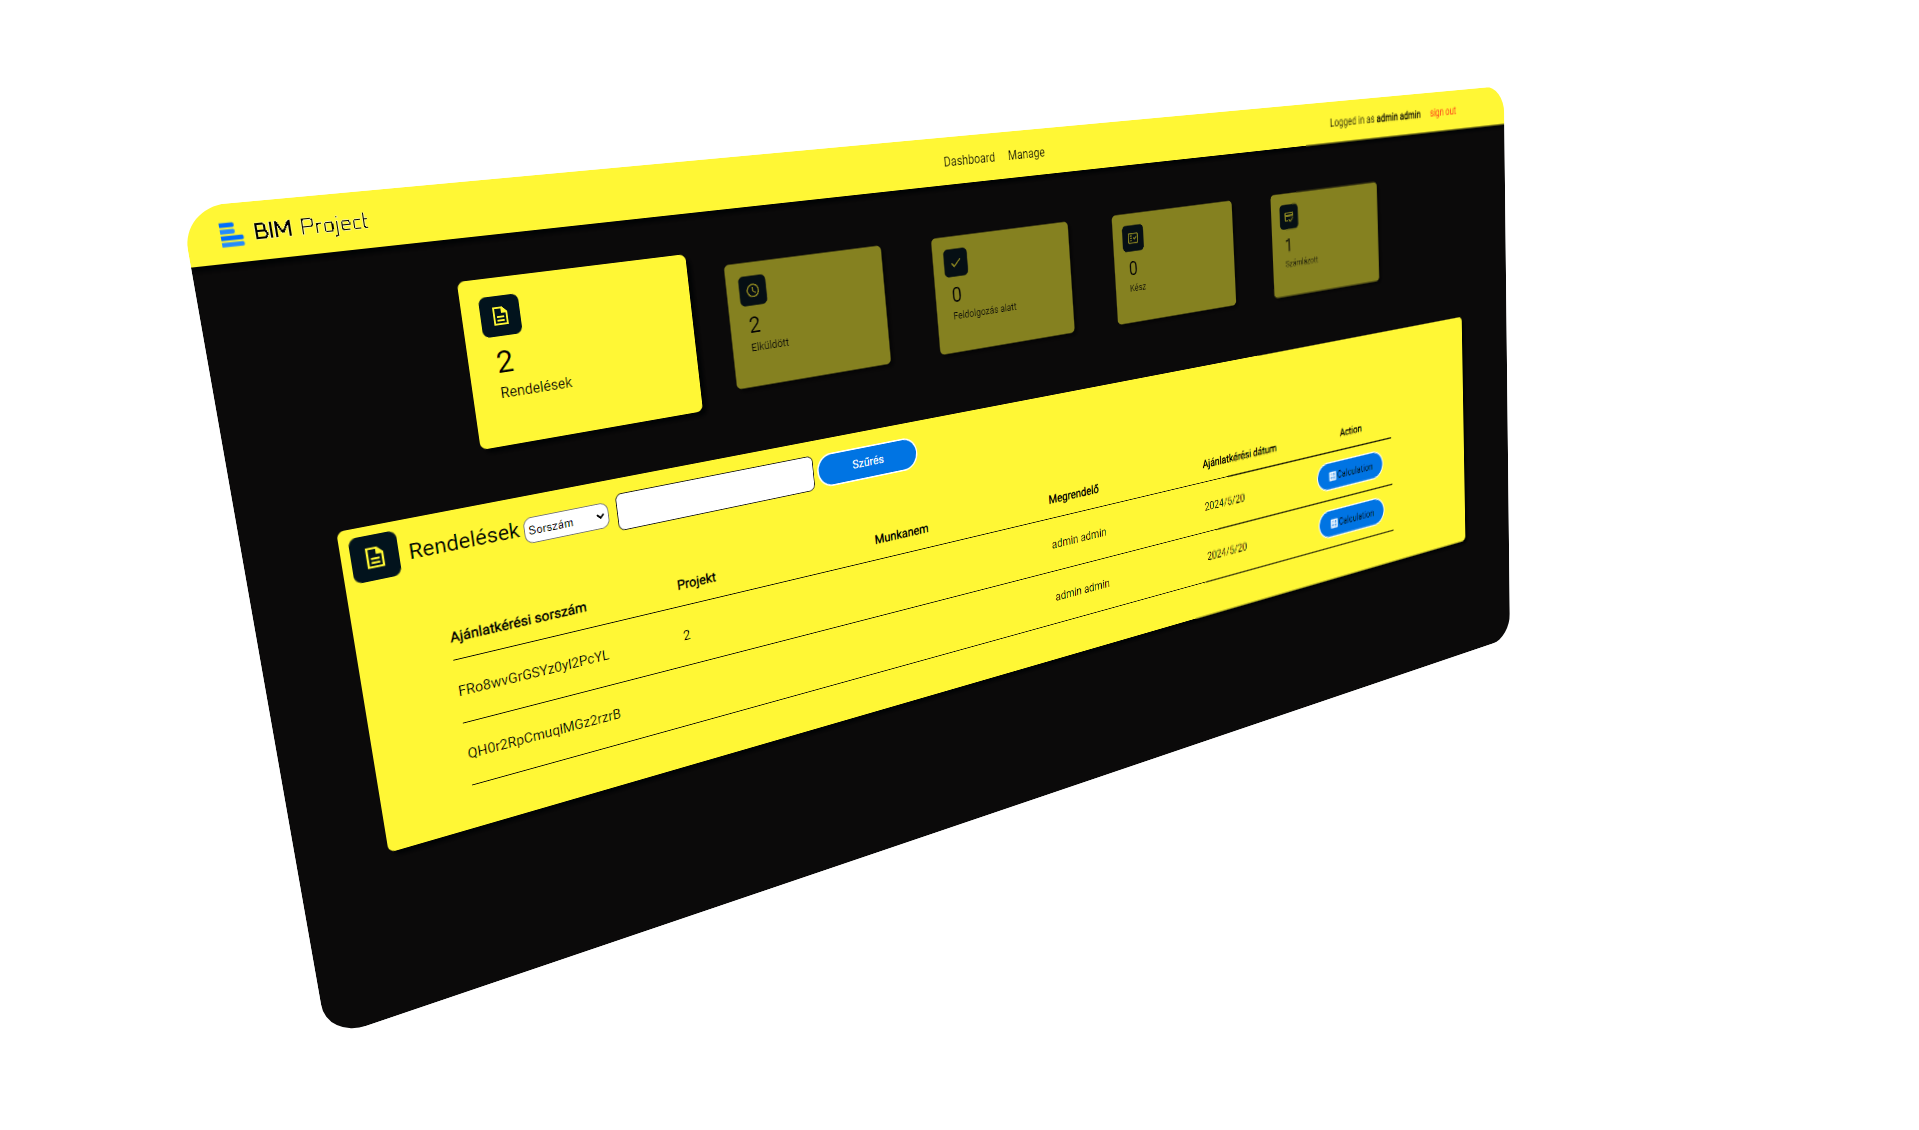
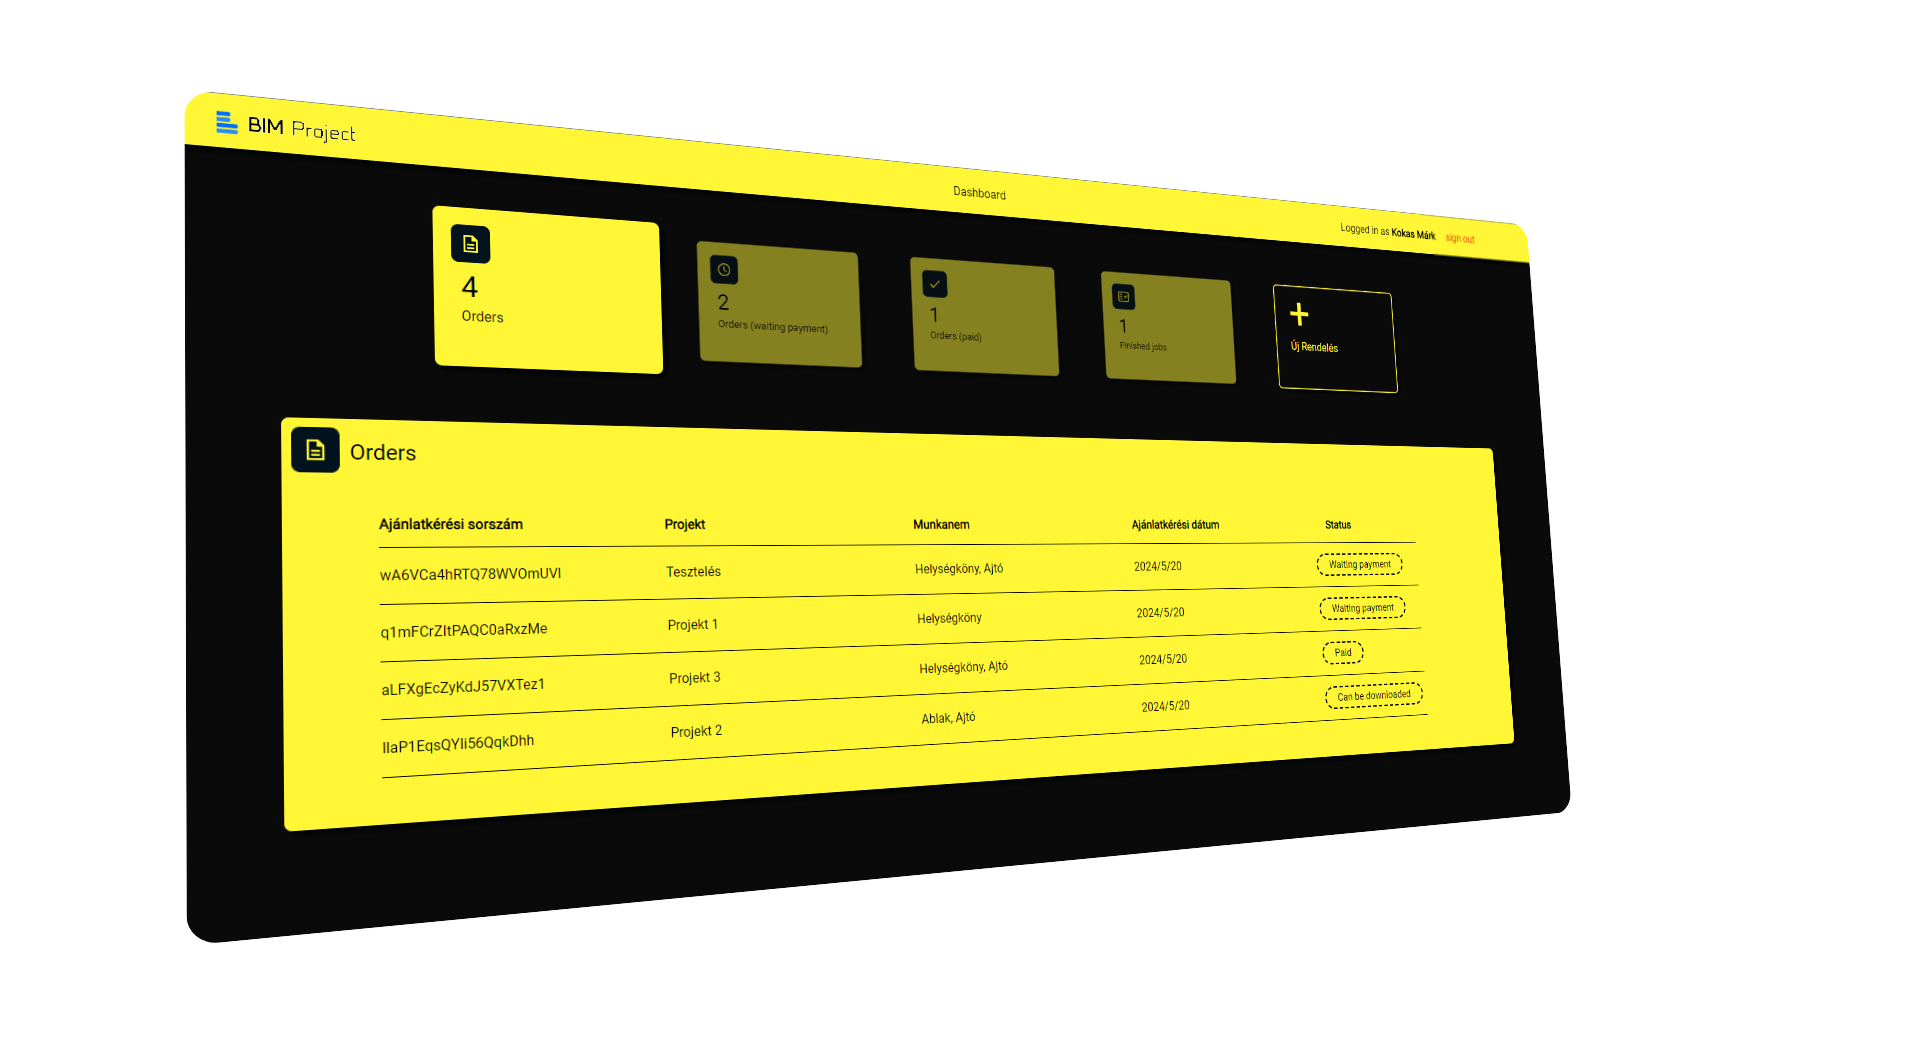
Rework...

diff --git a/src/CustomerDashboard.js b/src/CustomerDashboard.js
@@ -246,10 +246,8 @@ class CustomerDashboard extends Component {
     render() {
         return (
             <div style={{ backgroundColor: 'var(--darker-bg)', overflowY: this.state.blur == false ? 'scroll' : 'hidden', maxHeight: '1000px' }} ref={this.dashboard}>
-                <button className='rounded-btn-primary' style={{ position: 'relative', top: 0, left: '50%', filter: this.state.blur == true ? 'blur(3px) brightness(50%)' : '' }}
-                    onClick={() => this.requestOfferPopUp()}>Request New Offer</button>
                 <div className='dashboard-header' style={{ filter: this.state.blur == true ? 'blur(3px) brightness(50%)' : '' }}>
-                    <Card className={this.state.selectedCategory == "orders"?"header selected":"header"}
+                    {this.state.offers[0].length > 0 && <Card className={this.state.selectedCategory == "orders"?"header selected":"header"}
                         onClick={()=> this.setState({selectedCategory: "orders"})}>
                         <Card.Body style={{ margin: 20 }}>
                             <img src={require('./assets/dashboard_icons/icon-5.png')} />
@@ -258,8 +256,8 @@ class CustomerDashboard extends Component {
                                 <Card.Text style={{ marginTop: -30 }}>Orders</Card.Text>
                             </div>
                         </Card.Body>
-                    </Card>
-                    <Card className={this.state.selectedCategory == "waiting"?"header selected":"header"}
+                    </Card>}
+                    {this.state.offers[1].length > 0 && <Card className={this.state.selectedCategory == "waiting"?"header selected":"header"}
                         onClick={()=> this.setState({selectedCategory: "waiting"})}>
                         <Card.Body style={{ margin: 20 }}>
                             <img src={require('./assets/dashboard_icons/icon-2.png')} />
@@ -268,8 +266,8 @@ class CustomerDashboard extends Component {
                                 <Card.Text style={{ marginTop: -30 }}>Orders (waiting payment)</Card.Text>
                             </div>
                         </Card.Body>
-                    </Card>
-                    <Card className={this.state.selectedCategory == "paid"?"header selected":"header"}
+                    </Card>}
+                    {this.state.offers[2].length > 0 && <Card className={this.state.selectedCategory == "paid"?"header selected":"header"}
                         onClick={()=> this.setState({selectedCategory: "paid"})}>
                         <Card.Body style={{ margin: 20 }}>
                             <img src={require('./assets/dashboard_icons/icon-6.png')} />
@@ -278,8 +276,8 @@ class CustomerDashboard extends Component {
                                 <Card.Text style={{ marginTop: -30 }}>Orders (paid)</Card.Text>
                             </div>
                         </Card.Body>
-                    </Card>
-                    <Card className={this.state.selectedCategory == "finished"?"header selected":"header"}
+                    </Card>}
+                    {this.state.offers[3].length > 0 && <Card className={this.state.selectedCategory == "finished"?"header selected":"header"}
                         onClick={()=> this.setState({selectedCategory: "finished"})}>
                         <Card.Body style={{ margin: 20 }}>
                             <img src={require('./assets/dashboard_icons/icon-1.png')} />
@@ -289,13 +287,24 @@ class CustomerDashboard extends Component {
                             </div>
                         </Card.Body>
                     </Card>
-                    <Card className={this.state.selectedCategory == "billed"?"header selected":"header"}
+                    }
+                    {this.state.offers[4].length > 0 && <Card className={this.state.selectedCategory == "billed"?"header selected":"header"}
                         onClick={()=> this.setState({selectedCategory: "billed"})}>
                         <Card.Body style={{ margin: 20 }}>
                             <img src={require('./assets/dashboard_icons/icon-7.png')} />
                             <div style={{ marginTop: -30 }}>
                                 <Card.Text style={{ fontSize: 34, fontWeight: 'medium' }}>{this.state.offers[4].length}</Card.Text>
                                 <Card.Text style={{ marginTop: -30 }}>Billed Jobs</Card.Text>
+                            </div>
+                        </Card.Body>
+                    </Card>}
+                    <Card className={"header"}
+                        onClick={() => this.requestOfferPopUp()}
+                        style={{backgroundColor: 'transparent', border: '2px solid var(--bg)', color: 'var(--bg)', opacity: 1}}>
+                        <Card.Body style={{ margin: 20 }}>
+                            <div style={{ marginTop: -80 }}>
+                            <Card.Text style={{fontSize: 80 }}>+</Card.Text>
+                                <Card.Text style={{fontSize: 20, marginTop:-80 }}>Új Rendelés</Card.Text>
                             </div>
                         </Card.Body>
                     </Card>

diff --git a/src/Dashboard.js b/src/Dashboard.js
@@ -333,7 +333,7 @@ class Dashboard extends Component {
                 {this.state.selectedCategory == "sent" && <div className='dashboard-category' ref={this.sent_offersRef} style={{ filter: this.state.blur == true ? 'blur(3px) brightness(50%)' : '' }}>
                     <Card>
                         <Card.Title style={{ fontSize: 24 }}><img style={{ margin: 10, width: 50, height: 50, marginBottom: -15 }} src={require('./assets/dashboard_icons/icon-2.png')} />
-                        Sent Offers
+                        Elküldött
                         <select>
                                 <option>Sorszám</option>
                                 <option>Projekt</option>
@@ -372,7 +372,7 @@ class Dashboard extends Component {
                 {this.state.selectedCategory == "processing" && <div className='dashboard-category' ref={this.ordersRef} style={{ filter: this.state.blur == true ? 'blur(3px) brightness(50%)' : '' }}>
                     <Card>
                         <Card.Title style={{ fontSize: 24 }}><img style={{ margin: 10, width: 50, height: 50, marginBottom: -15 }} src={require('./assets/dashboard_icons/icon-6.png')} /> 
-                        Processing
+                        Feldolgozás alatt
                         <select>
                                 <option>Sorszám</option>
                                 <option>Projekt</option>
@@ -413,7 +413,7 @@ class Dashboard extends Component {
                 {this.state.selectedCategory == "finished" &&  <div className='dashboard-category' ref={this.processingRef} style={{ filter: this.state.blur == true ? 'blur(3px) brightness(50%)' : '' }}>
                     <Card>
                         <Card.Title style={{ fontSize: 24 }}><img style={{ margin: 10, width: 50, height: 50, marginBottom: -15 }} src={require('./assets/dashboard_icons/icon-1.png')} />
-                         Finished Jobs
+                         Kész
                          <select>
                                 <option>Sorszám</option>
                                 <option>Projekt</option>
@@ -452,7 +452,7 @@ class Dashboard extends Component {
                 {this.state.selectedCategory == "invoiced" && <div className='dashboard-category' ref={this.invoicedRef} style={{ filter: this.state.blur == true ? 'blur(3px) brightness(50%)' : '' }}>
                     <Card>
                         <Card.Title style={{ fontSize: 24 }}><img style={{ margin: 10, width: 50, height: 50, marginBottom: -15 }} src={require('./assets/dashboard_icons/icon-7.png')} />
-                         Invoiced Jobs
+                         Számlázott
                          <select>
                                 <option>Sorszám</option>
                                 <option>Projekt</option>

diff --git a/src/App.css b/src/App.css
@@ -86,7 +86,7 @@ body{
   color: var(--secondary);
   border-radius: 40px;
   padding: 5px 20px;
-  border: 2px dashed var(--secondary);
+  border: 2px dashed black;
   font-size: 20px;
   cursor: pointer;
 }
@@ -129,6 +129,7 @@ body{
 .dashboard-header{
   margin-left: 13%;
   margin-top: 5%;
+  display: flex;
 }
 .dashboard-header .card{
   display: inline-block;
@@ -291,8 +292,8 @@ body{
   box-shadow: 5px 5px 5px var(--shadow);
 }
 input{
-  background: var(--bg);
-  color: var(--secondary);
+  background: white;
+  color: black;
   border-radius: 8px;
   min-height: 40px;
   border: rgb(27, 27, 27);
@@ -548,7 +549,7 @@ input::placeholder{
   width: 50%;
   margin-left: 25%;
   height: 100%;
-  color: white;
+  color: black;
   text-align: center;
 }
 .manage-panel h1{
@@ -592,7 +593,7 @@ input::placeholder{
   width: fit-content;
   height: 50px;
   display: flex;
-  border: 1px solid white;
+  border: 1px solid black;
   padding: 10px;
   border-radius: 5px;
   margin-top: 10px;

diff --git a/src/Offer.js b/src/Offer.js
@@ -110,7 +110,7 @@ formatOfferId(offer) {
       <div className='offer' style={{ display: this.state.open ? "block" : "none" }}>
         {this.state.open && <div>
           <div className='offer-order-data'>
-            <Icon_close style={{ marginBottom: -20, marginLeft: "100%" }} className='interactable' onClick={() => this.popUpClose()} />
+            <Icon_close style={{ marginBottom: -20, marginLeft: "100%", filter: "invert(1)" }} className='interactable' onClick={() => this.popUpClose()} />
             <h1 style={{ marginTop: 0 }}>Order Data</h1>
 
             <div className='column-headers-rw-4'>
